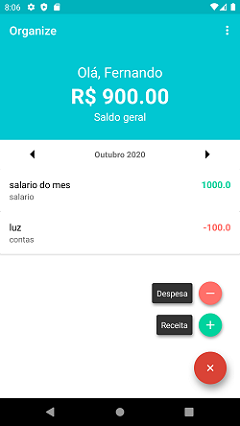
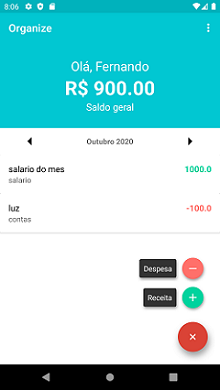
Alteracao README e tamanho dos prints

diff --git a/Organizze2/README.md b/Organizze2/README.md
@@ -1,4 +1,4 @@
-# Projeto clone do APP Organize
+# Projeto Clone do APP Organize
 
 <h1>
   <img alt="NextLevelWeek" title="#NextLevelWeek" src="./prints/img_1.png" />
@@ -6,3 +6,10 @@
   <img alt="NextLevelWeek" title="#NextLevelWeek" src="./prints/img_4.png" />
   <img alt="NextLevelWeek" title="#NextLevelWeek" src="./prints/img_5.png" />
 </h1>
+
+# Sobre o APP
+O app Organizze é um aplicativo com a finalidade de controlar o saldo financeiro dos usuários. Possibilita o cadastro de receitas e despesas por dia, possibilitando um controle das finanças dos usuários.
+
+# Sobre o Projeto
+Projeto desenvolvido na linguagem Java, com banco de dados Firebase.
+
